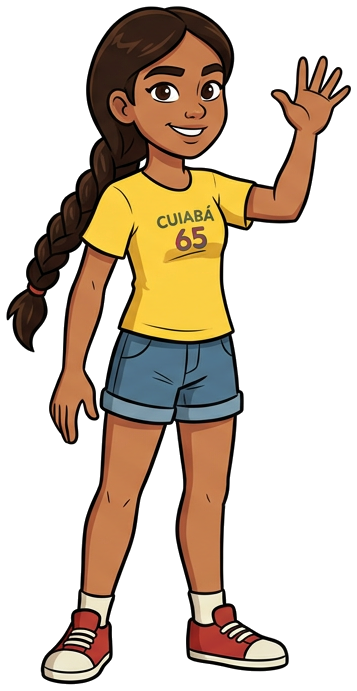
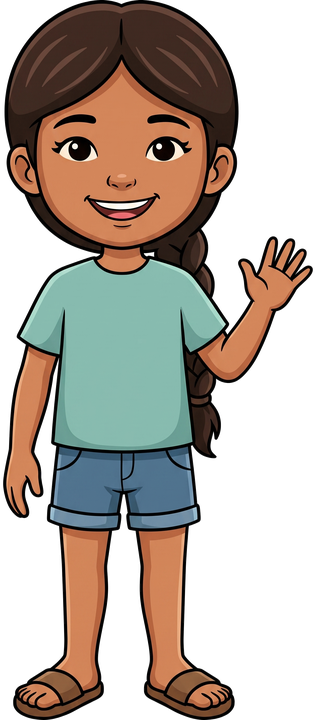
Personagem feminina redesenhada mais nova e renomeada para Jana
- Arte 2D do menu regerada (Higgsfield, referência: arte atual do Ben) com
  proporções de criança em vez de adolescente — cabeça maior, rosto mais
  redondo, roupa simplificada. Arte antiga preservada como
  player_girl_stand_teen_old.png.
- Nome trocado de "Dandara" para "Jana" (nome/rótulo em main.js e index.html).

diff --git a/index.html b/index.html
@@ -36,8 +36,8 @@
             <strong>Ben</strong>
           </button>
           <button class="char-card" data-char="girl">
-            <img src="assets/img/player_girl_stand.png" alt="Dandara">
-            <strong>Dandara</strong>
+            <img src="assets/img/player_girl_stand.png" alt="Jana">
+            <strong>Jana</strong>
           </button>
         </div>
         <p class="controls-hint">

diff --git a/js/main.js b/js/main.js
@@ -159,7 +159,7 @@ class App {
   startGame(char) {
     this.charStyle = char;
     this.playerName = this.playerName || 'Teste'; // fallback só pro atalho ?auto=1
-    this.nome = char === 'girl' ? 'Dandara' : 'Ben';
+    this.nome = char === 'girl' ? 'Jana' : 'Ben';
     $('screen-menu').classList.add('hidden');
     $('loading').classList.remove('hidden');
 
